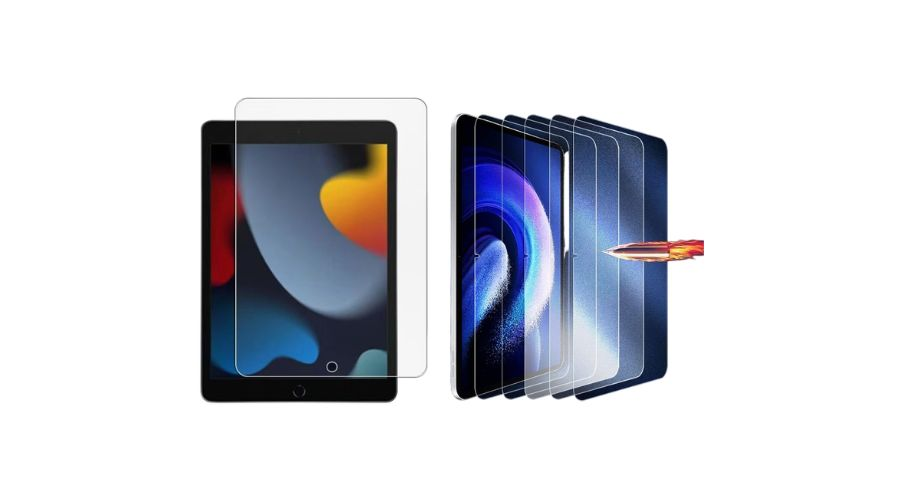
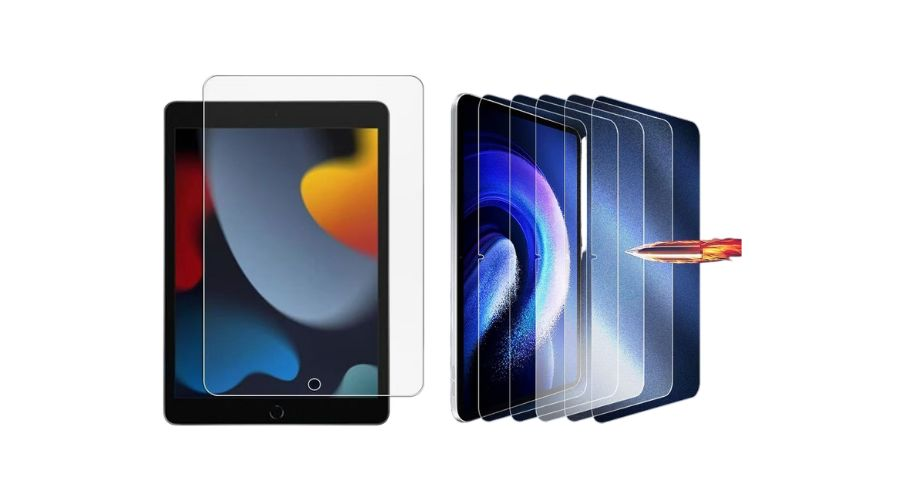
Add files via upload

Changed region(s): [[0.1556, 0.15, 0.84, 0.87]]

diff --git a/products.html b/products.html
@@ -66,10 +66,10 @@ ul{list-style:none}
 .tab-btn{display:flex;flex-direction:column;padding:0;cursor:pointer;border:2px solid rgba(255,255,255,.15);background:rgba(255,255,255,.06);border-radius:var(--rl);transition:var(--tr);overflow:hidden;text-align:left}
 .tab-btn:hover{background:rgba(255,255,255,.12);border-color:rgba(255,255,255,.3)}
 .tab-btn.active{background:rgba(255,255,255,.15);border-color:#fff}
-.tab-thumb{width:100%;height:240px;overflow:hidden;flex-shrink:0}
-.tab-thumb img{width:100%;height:100%;object-fit:cover;object-position:center top;transition:transform .4s ease}
+.tab-thumb{width:100%;height:240px;overflow:hidden;flex-shrink:0;pointer-events:none}
+.tab-thumb img{width:100%;height:100%;object-fit:cover;object-position:center top;transition:transform .4s ease;pointer-events:none}
 .tab-btn:hover .tab-thumb img{transform:scale(1.06)}
-.tab-btn-info{display:flex;align-items:center;gap:12px;padding:14px 16px}
+.tab-btn-info{display:flex;align-items:center;gap:12px;padding:14px 16px;pointer-events:none}
 .tab-btn-texts{display:flex;flex-direction:column;gap:5px;flex:1}
 .tab-btn-label{font-family:var(--font-head);font-size:15px;font-weight:800;color:#fff;text-transform:uppercase;letter-spacing:.04em;line-height:1.2}
 .tab-count{background:rgba(255,255,255,.15);border:1px solid rgba(255,255,255,.25);color:rgba(255,255,255,.8);font-family:var(--font-head);font-size:10px;font-weight:700;padding:3px 10px;border-radius:10px;display:inline-block;width:fit-content}